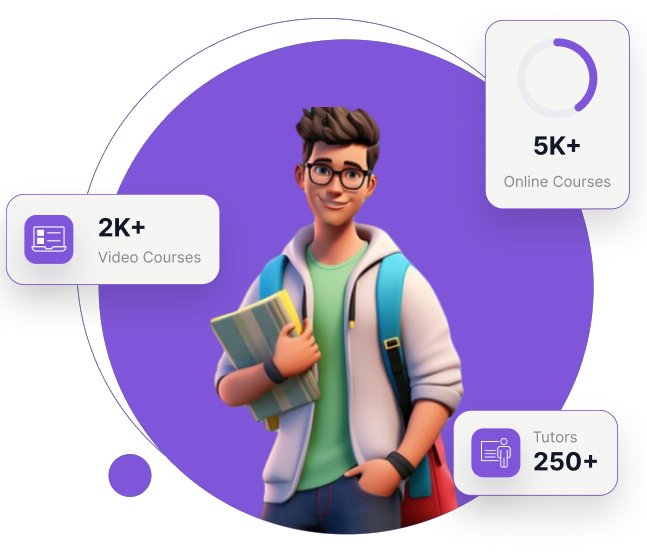
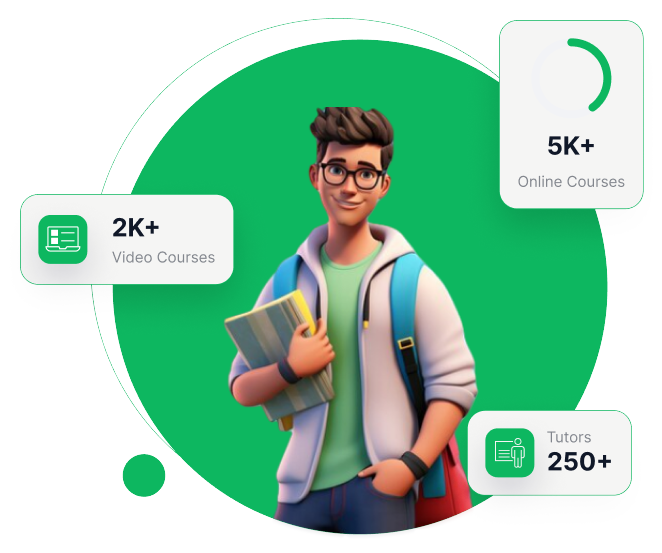
primary color updated

diff --git a/src/Components/Home/HeroSection.jsx b/src/Components/Home/HeroSection.jsx
@@ -22,7 +22,7 @@ const HeroSection = () => {
               <button className="bg-primary text-white font-bold  py-2 ss:py-3 sm:py-4 px-3 ss:px-5 sm:px-7 rounded-lg">
                 Get Started
               </button>
-              <button className="bg-primary-200 text-primary font-bold  py-2 ss:py-3 sm:py-4 px-3 ss:px-5 sm:px-7 rounded-lg">
+              <button className="bg-primary-100 text-primary font-bold  py-2 ss:py-3 sm:py-4 px-3 ss:px-5 sm:px-7 rounded-lg">
                 Get free trial
               </button>
             </div>
@@ -49,7 +49,7 @@ const HeroSection = () => {
             </div>
           </div>
           <div className="flex justify-end order-1 md:order-2">
-            <img className=" w-[320px] ss:w-full" src={bannerImg} alt="" />
+            <img className="w-full" src={bannerImg} alt="" />
           </div>
         </div>
       </div>

diff --git a/tailwind.config.js b/tailwind.config.js
@@ -9,17 +9,17 @@ export default {
     extend: {
       colors: {
         primary: {
-          '25': '#FCFAFF',
-          '50': '#F9F5FF',
-          '100': '#F4EBFF',
-          '200': '#E9D7FE',
-          '300': '#D6BBFB',
-          '400': '#B692F6',
-          '500': '#9E77ED',
-          DEFAULT: '#7F56D9',
-          '700': '#6941C6',
-          '800': '#53389E',
-          '900': '#42307D',
+          '25': '##effef6',
+          '50': '#effef6',
+          '100': '#dafeea',
+          '200': '#b7fbd7',
+          '300': '#7ff6b8',
+          '400': '#40e891',
+          '500': '#17d071',
+          DEFAULT: '#0DB760',
+          '700': '#0e8749',
+          '800': '#116a3e',
+          '900': '#105734',
         },
         secondary: {
           '25': '#FCFCFD',

diff --git a/src/Shared/Navbar/Navbar.jsx b/src/Shared/Navbar/Navbar.jsx
@@ -75,7 +75,7 @@ const Navbar = () => {
                 >
                   <path
                     d="M1 1.5L6 6.5L11 1.5"
-                    stroke="#7F56D9"
+                    className=" text-primary stroke-current"
                     strokeWidth="2"
                     strokeLinecap="round"
                     strokeLinejoin="round"
